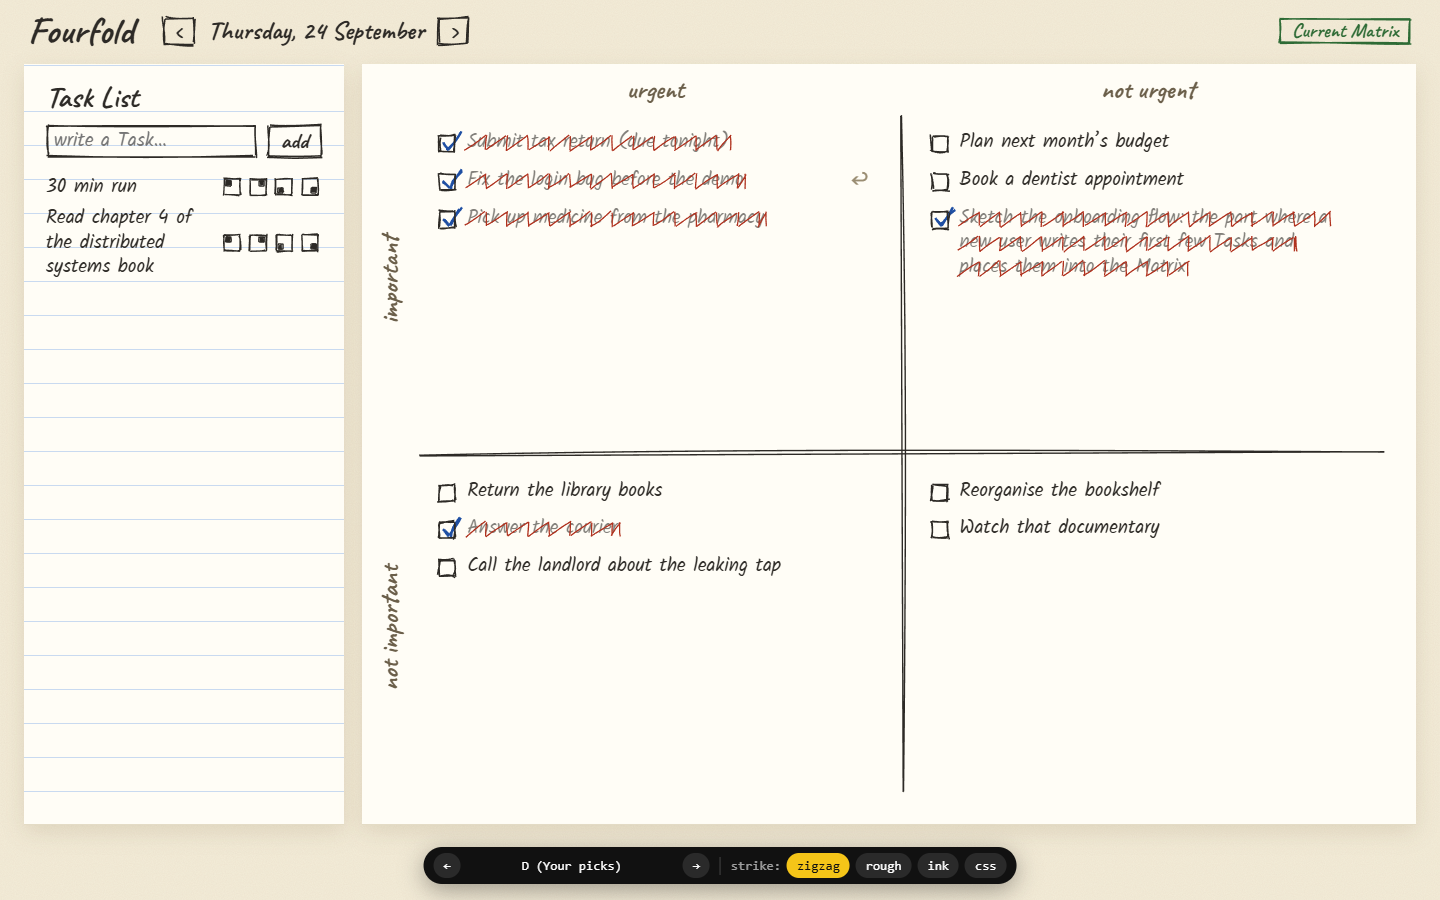
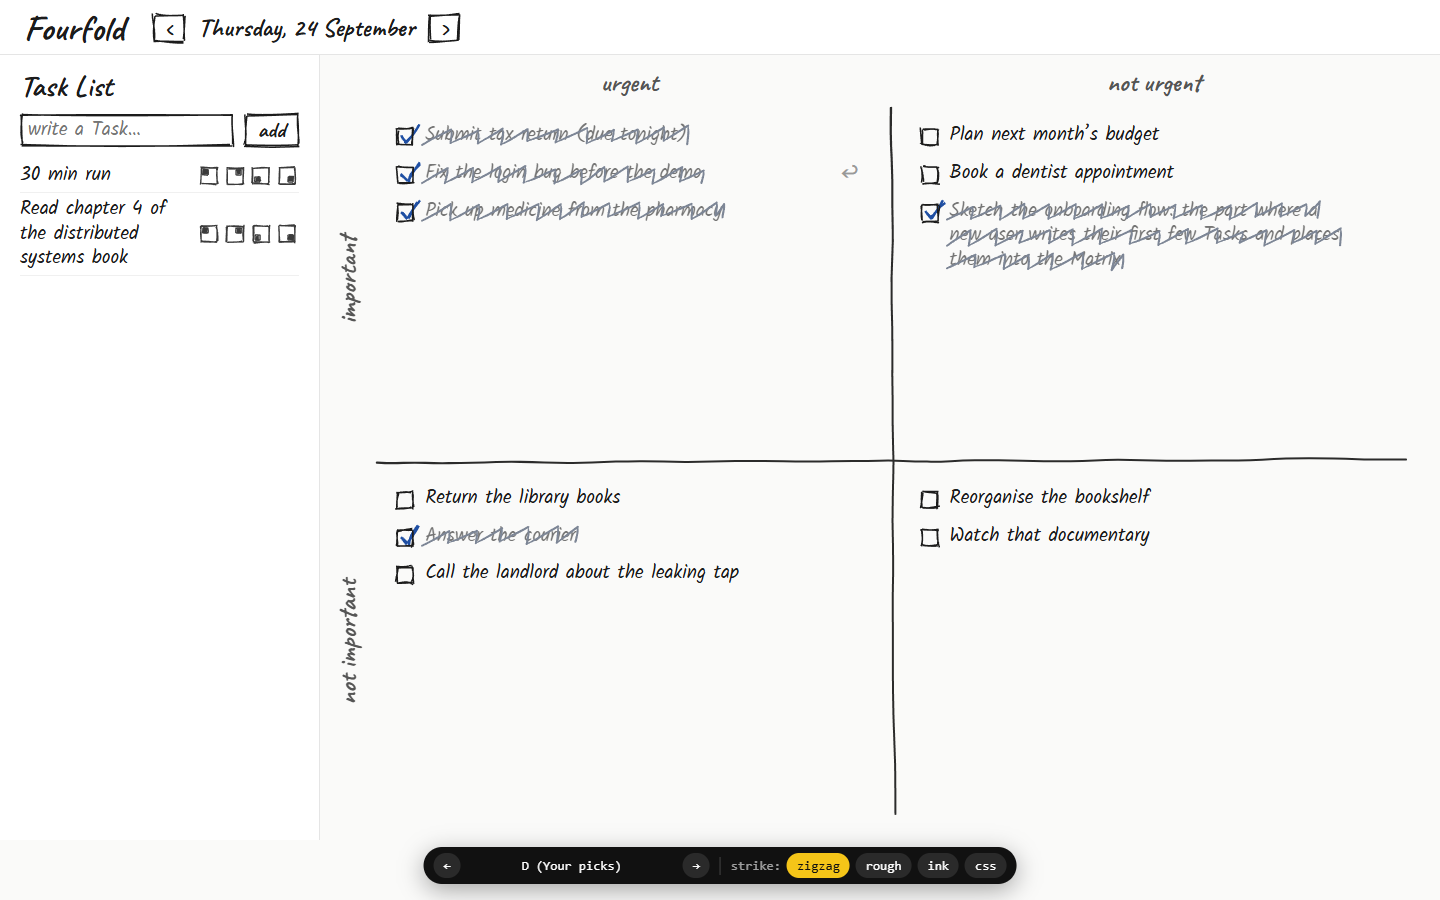
PROTOTYPE #8: D round 2 - A's colours, B's ink dividers, natural zigzag
Drop the paper/grain/ruled background and the Current Matrix pill; felt-pen
zigzag strike with uneven teeth, thicker, in soft slate instead of red.

Changed region(s): [[0.0, 0.0, 1.0, 1.0], [0.625, 0.3111, 0.6562, 0.4044]]

diff --git a/prototypes/visual-direction/src/styles.css b/prototypes/visual-direction/src/styles.css
@@ -132,51 +132,49 @@ s { opacity: 0.6; }
 .quad-icon { display: block; width: 18px; height: 18px; overflow: visible; }
 
 /* ============ Variant D: Your picks ============ */
-.vd { --divider: #2d2a26; --strike: #b0321f; position: relative; height: 100%; display: flex; flex-direction: column; background: #f4ecd8; color: #2d2a26; font: 19px/1.3 Kalam, cursive; }
-.vd-grain { position: fixed; inset: 0; width: 100%; height: 100%; pointer-events: none; }
-.vd > :not(.vd-grain) { position: relative; }
+/* A's colour scheme (off-white, white panels, hairline borders), C's sketched controls and handwriting. */
+.vd { --divider: #2b2b2b; --strike: #7d8696; position: relative; height: 100%; display: flex; flex-direction: column; background: #fafaf9; color: #1c1c1c; font: 19px/1.3 Kalam, cursive; }
 .vd button { border: 0; background: none; }
-.vd-top { display: flex; align-items: center; gap: 28px; padding: 12px 28px 8px; }
-.vd-top h1 { font: 700 38px/1 Caveat, cursive; margin: 0; }
+.vd-top { display: flex; align-items: center; gap: 28px; padding: 10px 24px 8px; background: #fff; border-bottom: 1px solid #e5e5e5; }
+.vd-top h1 { font: 700 36px/1 Caveat, cursive; margin: 0; }
 .vd-date { display: flex; align-items: center; gap: 12px; font: 700 26px/1 Caveat, cursive; }
 .vd-btn button { width: 34px; height: 30px; font-size: 22px; }
-.vd-pill { margin-left: auto; padding: 4px 14px; font: 700 20px/1 Caveat, cursive; color: #2e6b35; }
-.vd-body { flex: 1; display: flex; gap: 18px; min-height: 0; padding: 6px 24px 76px; }
-.vd-page { background: #fffdf6; box-shadow: 0 1px 0 #e4dcc6, 0 8px 22px rgba(80,60,20,.12); }
-.vd-list { width: 320px; flex: none; padding: 18px 22px; overflow: auto; background: #fffdf6 repeating-linear-gradient(transparent 0 33px, #c9daf0 33px 34px) 0 14px; }
+.vd-body { flex: 1; display: flex; min-height: 0; padding-bottom: 60px; }
+.vd-page { background: #fff; }
+.vd-list { width: 320px; flex: none; padding: 16px 20px; overflow: auto; border-right: 1px solid #e5e5e5; }
 .vd-list h2 { font: 700 30px/1 Caveat, cursive; margin: 0 0 12px; }
 .vd-add { display: flex; gap: 10px; margin-bottom: 12px; }
 .vd-input { flex: 1; min-width: 0; }
 .vd-input input { flex: 1; min-width: 0; border: 0; background: none; font: inherit; padding: 4px 8px; outline: none; }
 .vd-addbtn button { position: relative; font: 700 22px/1 Caveat, cursive; padding: 6px 14px; }
-.vd-list li { display: flex; align-items: center; justify-content: space-between; gap: 8px; min-height: 34px; padding: 2px 0; }
+.vd-list li { display: flex; align-items: center; justify-content: space-between; gap: 8px; min-height: 34px; padding: 4px 0; border-bottom: 1px solid #f0f0f0; }
 .vd .place-buttons { display: inline-flex; gap: 2px; flex: none; }
-.vd .place-buttons button { padding: 3px; display: flex; color: #2d2a26; }
-.vd .place-buttons button:hover { color: #b0321f; }
-.vd-empty { color: #9a8d72; margin: 8px 0; }
-.vd-matrixpage { flex: 1; min-width: 0; display: grid; grid-template: auto 1fr / auto 1fr; padding: 10px 22px 22px 8px; }
-.vd-axis-top { grid-column: 2; display: flex; font: 700 26px/1.2 Caveat, cursive; color: #6b5f4a; }
-.vd-axis-left { grid-row: 2; writing-mode: vertical-rl; transform: rotate(180deg); display: flex; flex-direction: row-reverse; font: 700 26px/1.2 Caveat, cursive; color: #6b5f4a; padding: 0 4px; }
+.vd .place-buttons button { padding: 3px; display: flex; color: #3b3b3b; }
+.vd .place-buttons button:hover { color: #000; background: #f2f2f0; border-radius: 4px; }
+.vd-empty { color: #999; margin: 8px 0; }
+.vd-matrixpage { flex: 1; min-width: 0; display: grid; grid-template: auto 1fr / auto 1fr; padding: 12px 24px 16px 8px; background: none; }
+.vd-axis-top { grid-column: 2; display: flex; font: 700 26px/1.2 Caveat, cursive; color: #555; }
+.vd-axis-left { grid-row: 2; writing-mode: vertical-rl; transform: rotate(180deg); display: flex; flex-direction: row-reverse; font: 700 26px/1.2 Caveat, cursive; color: #555; padding: 0 4px; }
 .vd-axis-top span, .vd-axis-left span { flex: 1; text-align: center; }
 .vd-matrix { grid-column: 2; grid-row: 2; position: relative; display: grid; grid-template: 1fr 1fr / 1fr 1fr; min-height: 0; }
 .vd-q { padding: 22px 28px; overflow: auto; transition: background-color .15s; }
-.vd-q.over, .vd-list.over { background-color: #f7ecd9; }
+.vd-q.over, .vd-list.over { background-color: #f0f0ee; }
 .vd-q li { display: flex; align-items: flex-start; gap: 10px; padding: 3px 0; }
 .vd-check { flex: none; cursor: pointer; padding-top: 4px; }
 .vd-box { width: 20px; height: 20px; }
 .vd-check input:focus-visible + .vd-box { outline: 2px solid #1f4fa3; outline-offset: 2px; }
-.vd-return { opacity: 0; color: #9a8d72; }
+.vd-return { opacity: 0; color: #999; }
 .vd-q li:hover .vd-return, .vd-return:focus-visible { opacity: 1; }
 .vd li[data-id] { touch-action: none; cursor: grab; user-select: none; }
 .vd li.dragging { opacity: .3; }
-.vd .vd-drop-line { min-height: 0; height: 0; padding: 0; margin: 2px 0; border-top: 3px solid #b0321f; border-radius: 2px; }
-.vd > .vd-ghost { position: fixed; z-index: 900; pointer-events: none; padding: 6px 12px; background: #fffdf6; box-shadow: 0 10px 24px rgba(80,60,20,.25); transform: rotate(-2deg); }
+.vd .vd-drop-line { min-height: 0; height: 0; padding: 0; margin: 2px 0; border-top: 3px solid #3b3b3b; border-radius: 2px; }
+.vd > .vd-ghost { position: fixed; z-index: 900; pointer-events: none; padding: 6px 12px; background: #fff; border: 1px solid #e5e5e5; border-radius: 6px; box-shadow: 0 10px 24px rgba(0,0,0,.15); transform: rotate(-2deg); }
 body.vd-dragging, body.vd-dragging * { cursor: grabbing !important; }
 @media (max-width: 720px) {
   .vd { height: auto; min-height: 100%; }
   .vd-top { flex-wrap: wrap; gap: 8px 16px; padding: 10px 14px 6px; }
   .vd-body { flex-direction: column; padding: 6px 12px 76px; }
-  .vd-list { width: auto; }
+  .vd-list { width: auto; border-right: 0; border-bottom: 1px solid #e5e5e5; }
   .vd-matrixpage { min-height: 80vh; padding: 6px 8px 12px 0; }
   .vd-q { padding: 12px 10px; }
   .vd-axis-top, .vd-axis-left { font-size: 20px; }

diff --git a/prototypes/visual-direction/src/sketch.ts b/prototypes/visual-direction/src/sketch.ts
@@ -90,16 +90,30 @@ export function scribble(x: number, y: number, w: number, h: number, seed: numbe
   return inkPath(pts, Math.max(2, h * 0.11));
 }
 
-/** Pencil zigzag across one line box of text, drawn like /|/|/| (up-slash, drop straight down). */
-export function zigzag(x: number, y: number, w: number, h: number, seed: number): SketchPath[] {
-  const top = y + h * 0.3;
-  const bottom = y + h * 0.78;
-  const step = Math.max(8, h * 0.7);
-  const end = x + w + 2;
-  const pts: [number, number][] = [[x - 2, bottom]];
-  for (let cx = x - 2; cx < end; ) {
-    cx = Math.min(cx + step, end);
-    pts.push([cx, top], [cx, bottom]);
+/** Felt-pen /|/|/| zigzag across one line box of text: uneven teeth, drifting baseline, down strokes that lean. */
+export function zigzag(x: number, y: number, w: number, h: number, seed: number): string {
+  const r = rng(seed);
+  const jit = (n: number) => (r() - 0.5) * n;
+  const top = y + h * 0.28;
+  const bottom = y + h * 0.8;
+  const drift = jit(h * 0.2); // the whole stroke rises or sinks a little from left to right
+  const lift = (cx: number) => ((cx - x) / Math.max(w, 1)) * drift;
+  const end = x + w + 3;
+  let cx = x - 3;
+  const corners: number[][] = [[cx, bottom + jit(h * 0.08)]];
+  while (cx < end) {
+    cx = Math.min(cx + h * (0.75 + r() * 0.3), end);
+    corners.push([cx + jit(2), top + lift(cx) + jit(h * 0.14)]);
+    corners.push([cx - 1.5 - r() * 2.5, bottom + lift(cx) + jit(h * 0.12)]);
   }
-  return roughPolyline(pts, { seed, roughness: 0.6, bowing: 0.3, strokeWidth: 1.3, disableMultiStroke: true });
+  // Wobble along each stroke so the corners stay sharp but the lines aren't ruler-straight.
+  const pts: number[][] = [corners[0]];
+  for (let i = 1; i < corners.length; i++) {
+    const [ax, ay] = corners[i - 1];
+    const [bx, by] = corners[i];
+    for (const t of [0.35, 0.7]) pts.push([ax + (bx - ax) * t + jit(1.2), ay + (by - ay) * t + jit(1.2)]);
+    pts.push(corners[i]);
+  }
+  const outline = getStroke(pts, { size: Math.max(1.8, h * 0.07), thinning: 0.15, smoothing: 0.25, streamline: 0.15, simulatePressure: false, last: true });
+  return pathFromStroke(outline);
 }

diff --git a/prototypes/visual-direction/src/draw.tsx b/prototypes/visual-direction/src/draw.tsx
@@ -86,26 +86,22 @@ export function StrikeText({ id, text, done, style }: { id: string; text: string
       {done && style !== 'css' && (
         <svg className="strike-svg" aria-hidden="true">
           {lines.map((l, i) =>
-            style !== 'ink' ? (
+            style === 'rough' ? (
               <g key={i} style={{ '--d': `${i * 0.25}s` } as CSSProperties}>
                 <Paths
-                  className={animate ? (style === 'zigzag' ? 'draw-on draw-slow' : 'draw-on') : undefined}
-                  paths={
-                    style === 'zigzag'
-                      ? zigzag(l.x, l.y, l.w, l.h, seed + i)
-                      : roughLine(l.x - 3, l.y + l.h * 0.58, l.x + l.w + 3, l.y + l.h * 0.5, {
-                          seed: seed + i,
-                          roughness: 1.6,
-                          bowing: 2,
-                          strokeWidth: 1.8,
-                        })
-                  }
+                  className={animate ? 'draw-on' : undefined}
+                  paths={roughLine(l.x - 3, l.y + l.h * 0.58, l.x + l.w + 3, l.y + l.h * 0.5, {
+                    seed: seed + i,
+                    roughness: 1.6,
+                    bowing: 2,
+                    strokeWidth: 1.8,
+                  })}
                 />
               </g>
             ) : (
               <path
                 key={i}
-                d={scribble(l.x, l.y, l.w, l.h, seed + i)}
+                d={(style === 'zigzag' ? zigzag : scribble)(l.x, l.y, l.w, l.h, seed + i)}
                 fill="currentColor"
                 className={animate ? 'wipe-on' : undefined}
                 style={{ '--d': `${i * 0.3}s` } as CSSProperties}

diff --git a/prototypes/visual-direction/src/variants/D_Picks.tsx b/prototypes/visual-direction/src/variants/D_Picks.tsx
@@ -83,13 +83,6 @@ export function Variant({ store, strike }: VariantProps) {
 
   return (
     <div className="vd">
-      <svg className="vd-grain" aria-hidden="true">
-        <filter id="vd-grain">
-          <feTurbulence type="fractalNoise" baseFrequency="0.9" numOctaves="2" seed="3" />
-          <feColorMatrix values="0 0 0 0 0.35  0 0 0 0 0.3  0 0 0 0 0.2  0 0 0 0.09 0" />
-        </filter>
-        <rect width="100%" height="100%" filter="url(#vd-grain)" />
-      </svg>
       <header className="vd-top">
         <h1>Fourfold</h1>
         <nav className="vd-date">
@@ -101,9 +94,6 @@ export function Variant({ store, strike }: VariantProps) {
             <button aria-label="Next date">›</button>
           </RoughBox>
         </nav>
-        <RoughBox seed={13} className="vd-pill" roughness={0.8}>
-          Current Matrix
-        </RoughBox>
       </header>
       <div className="vd-body">
         <aside className={`vd-page vd-list${drag?.zone === 'list' ? ' over' : ''}`} data-drop="list" aria-labelledby="vd-list">
@@ -149,7 +139,7 @@ export function Variant({ store, strike }: VariantProps) {
             <span>not important</span>
           </div>
           <main className="vd-matrix">
-            <Dividers kind="pencil" seed={31} />
+            <Dividers kind="ink" seed={31} />
             {QUADRANTS.map((q, i) => (
               <section key={i} className={`vd-q${drag?.zone === i ? ' over' : ''}`} data-drop={i} aria-label={q.label}>
                 <ul>

diff --git a/prototypes/visual-direction/README.md b/prototypes/visual-direction/README.md
@@ -15,9 +15,9 @@ Flip variants with the bottom bar (or ←/→ keys). State (placements, completi
 | `A` Matrix only | Clean sans chrome and Task List; pencil (rough.js) dividers, script Quadrant labels. Task text stays sans. |
 | `B` Ink Matrix, plain chrome | Plain header, Task List as a chip tray; felt-pen (perfect-freehand) dividers, handwriting Task text, axis labels outside the Matrix. |
 | `C` Whole notebook | Paper grain, ruled Task List page, sketchy boxes/checkboxes/buttons, arrowed axes, handwriting everywhere. |
-| `D` Your picks (default) | Built from the feedback on A–C: A's partitioning (header / Task List / Matrix, input and Add apart), B's urgent / important axis headers, C's sketched look throughout. Drag-and-drop placement (into a Quadrant at a position, between Quadrants, back to the Task List), with B-style mini-quadrant buttons as the non-drag fallback. |
+| `D` Your picks (default) | Built from the feedback on A–C: A's partitioning (header / Task List / Matrix, input and Add apart) and A's colour scheme (no paper, grain or ruled lines), B's urgent / important axis headers and felt-pen dividers, C's sketched controls and handwriting. No Current Matrix pill. Drag-and-drop placement (into a Quadrant at a position, between Quadrants, back to the Task List), with B-style mini-quadrant buttons as the non-drag fallback. |
 
-`?strike=zigzag|rough|ink|css` switches the Completed Task strike-through (pencil `/|/|/|` zigzag, the default / rough.js line / perfect-freehand scribble / plain CSS). Complete a Task to see the draw-on animation (skipped under `prefers-reduced-motion`).
+`?strike=zigzag|rough|ink|css` switches the Completed Task strike-through (felt-pen `/|/|/|` zigzag with uneven, leaning teeth in soft slate, the default / rough.js line / perfect-freehand scribble / plain CSS). Complete a Task to see the draw-on animation (skipped under `prefers-reduced-motion`).
 
 Per the in-Quadrant layout decision (#6): Quadrants are plain ordered lists, Tasks drawn straight, Completed Tasks stay in place. In A–C the placement buttons are a stand-in (append to end of Quadrant).
 
